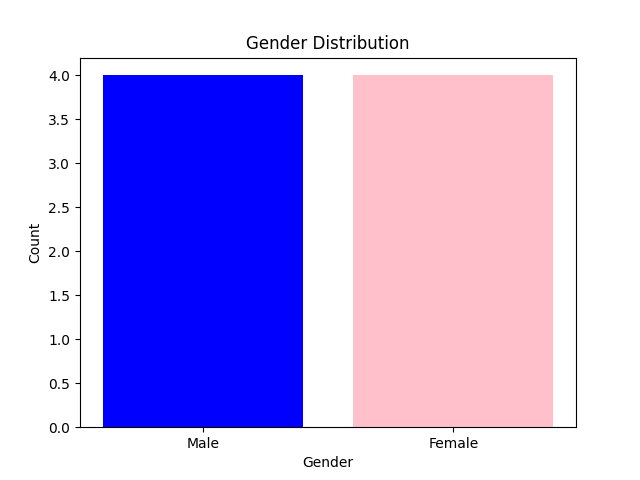
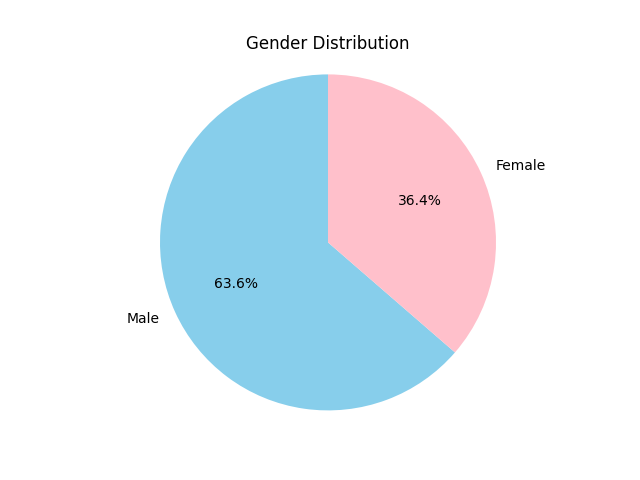
modifing css

diff --git a/templates/index.html b/templates/index.html
@@ -5,36 +5,43 @@
     <meta charset="UTF-8">
     <meta name="viewport" content="width=device-width, initial-scale=1.0">
     <title>Student GPA App</title>
+    <link rel="stylesheet" href="{{ url_for('static', filename='styles.css') }}">
+    <!-- <link rel="stylesheet" href="../static/styles.css"> -->
 </head>
 
 <body>
-    <h1>Student GPA App</h1>
+    <div class="container">
+        <h1>Student GPA App</h1>
 
-    <h2>Diagrams</h2>
-    <div>
-        <img src="{{ url_for('static', filename='diagrams/gpa_chart.png') }}" alt="GPA Chart">
-        <img src="{{ url_for('static', filename='diagrams/gender_chart.png') }}" alt="Gender Chart">
+        <h2>Diagrams</h2>
+        <div class="diagrams">
+            <img src="{{ url_for('static', filename='diagrams/gpa_chart.png') }}" alt="GPA Chart">
+            <img src="{{ url_for('static', filename='diagrams/gender_chart.png') }}" alt="Gender Chart">
+            <!-- <img src="../static/diagrams/gpa_chart.png">
+            <img src="../static/diagrams/gender_chart.png"> -->
+        </div>
+
+        <h2 class="h2">Student List</h2>
+        <table border="1">
+            <tr>
+                <th>Name</th>
+                <th>Gender</th>
+                <th>GPA</th>
+            </tr>
+            {% for student in students %}
+            <tr>
+                <td>{{ student.name }}</td>
+                <td>{{ student.gender }}</td>
+                <td>{{ student.gpa }}</td>
+            </tr>
+            {% endfor %}
+        </table>
+
+        <a class="add-button" href="{{ url_for('add_student') }}">Add New Student</a>
+        <hr>
+        <P>Developed BY <a class="yadi" href="https://github.com/yadi09/student_info_matplotlib/">YADAMZER TEREFE</a>
+        </P>
     </div>
-
-    <h2>Student List</h2>
-    <table border="1">
-        <tr>
-            <th>Name</th>
-            <th>Gender</th>
-            <th>GPA</th>
-        </tr>
-        {% for student in students %}
-        <tr>
-            <td>{{ student.name }}</td>
-            <td>{{ student.gender }}</td>
-            <td>{{ student.gpa }}</td>
-        </tr>
-        {% endfor %}
-    </table>
-
-    <a href="{{ url_for('add_student') }}">Add New Student</a>
-    <hr>
-    <P>Developed BY <a href="https://github.com/yadi09/student_info_matplotlib/">YADAMZER TEREFE</a></P>
 </body>
 
 </html>

diff --git a/static/styles.css b/static/styles.css
@@ -1,0 +1,90 @@
+body {
+    font-family: Arial, sans-serif;
+    margin: 0;
+    padding: 0;
+    background-color: #ffffff;
+}
+
+.container {
+    width: 80%;
+    margin: 20px auto;
+    background: rgb(206, 212, 224);
+    padding: 20px;
+    border-radius: 10px;
+    box-shadow: 0 4px 10px rgba(0, 0, 0, 0.1);
+}
+
+h1,
+h2 {
+    text-align: center;
+    color: #333;
+}
+
+h1 {
+    border-bottom: solid 3px black;
+    padding-bottom: 15px;
+    margin-bottom: 0px;
+}
+
+.diagrams {
+    display: flex;
+    justify-content: space-around;
+    margin: 20px 0;
+}
+
+.diagrams img {
+    max-width: 500px;
+    border: 1px solid #ddd;
+    border-radius: 10px;
+    padding: 5px;
+    background: #215ac4;
+}
+
+.h2 {
+    border-top: solid 3px black;
+    border-bottom: solid 3px black;
+    padding: 10px;
+    margin-top: 50px;
+    margin-bottom: 30px;
+}
+
+table {
+    width: 100%;
+    border-collapse: collapse;
+    margin: 20px 0;
+}
+
+table th,
+table td {
+    border: 2px solid #ffffff;
+    padding: 10px;
+    text-align: left;
+}
+
+table th {
+    background-color: #f4f4f4;
+}
+
+.add-button {
+    display: inline-block;
+    padding: 10px 20px;
+    background: #007BFF;
+    color: white;
+    text-decoration: none;
+    border-radius: 5px;
+    text-align: center;
+}
+
+.add-button:hover {
+    background: #0056b3;
+}
+
+p {
+    margin-top: 50px;
+    margin-bottom: 0;
+}
+
+.yadi {
+    text-decoration: none;
+    color: #215ac4;
+}

diff --git a/static/styles_add_student.css b/static/styles_add_student.css
@@ -1,0 +1,74 @@
+body {
+    font-family: 'Arial', sans-serif;
+    background-color: #eef2f3;
+    margin: 0;
+    padding: 0;
+    color: #333;
+}
+
+h1 {
+    text-align: center;
+    color: #2c3e50;
+    margin-top: 20px;
+    font-size: 28px;
+}
+
+form {
+    width: 400px;
+    margin: 20px auto;
+    padding: 20px;
+    background: white;
+    border-radius: 8px;
+    box-shadow: 0 4px 6px rgba(0, 0, 0, 0.1);
+}
+
+label {
+    display: block;
+    font-weight: bold;
+    margin-top: 10px;
+}
+
+input[type="text"],
+input[type="number"],
+select {
+    width: 95%;
+    padding: 10px;
+    margin-top: 5px;
+    margin-bottom: 15px;
+    border: 1px solid #ccc;
+    border-radius: 5px;
+    font-size: 16px;
+}
+
+select {
+    width: 100%;
+}
+
+button {
+    width: 100%;
+    padding: 10px;
+    background-color: #3498db;
+    color: white;
+    border: none;
+    border-radius: 5px;
+    font-size: 16px;
+    cursor: pointer;
+}
+
+button:hover {
+    background-color: #1d6fa5;
+}
+
+a {
+    display: block;
+    text-align: center;
+    margin-top: 15px;
+    color: #3498db;
+    text-decoration: none;
+    font-size: 14px;
+}
+
+a:hover {
+    color: #1d6fa5;
+    text-decoration: underline;
+}

diff --git a/templates/add_student.html b/templates/add_student.html
@@ -5,6 +5,8 @@
     <meta charset="UTF-8">
     <meta name="viewport" content="width=device-width, initial-scale=1.0">
     <title>Add Student</title>
+    <link rel="stylesheet" href="{{ url_for('static', filename='styles_add_student.css') }}">
+    <!-- <link rel="stylesheet" href="../static/styles_add_student.css"> -->
 </head>
 
 <body>

diff --git a/app.py b/app.py
@@ -14,6 +14,8 @@ students_data = [
     {"name": "Regasa", "gender": "Male", "gpa": 0.5},
     {"name": "Demekech", "gender": "Female", "gpa": 2.7},
     {"name": "Alemitu", "gender": "Female", "gpa": 1.4},
+    {"name": "zelalem", "gender": "Male", "gpa": 3.4},
+    {"name": "abel", "gender": "Male", "gpa": 2.9},
 ]
 
 # function to generate diagrams
@@ -33,10 +35,12 @@ def generate_diagrams():
     gender_count = {"Male": 0, "Female": 0}
     for student in students_data:
         gender_count[student["gender"]] += 1
-    plt.bar(gender_count.keys(), gender_count.values(), color=['blue', 'pink'])
+    labels = list(gender_count.keys())
+    sizes = list(gender_count.values())
+    colors = ['skyblue', 'pink']
+    plt.pie(sizes, labels=labels, colors=colors, autopct='%1.1f%%', startangle=90)
     plt.title("Gender Distribution")
-    plt.xlabel("Gender")
-    plt.ylabel("Count")
+    plt.axis('equal')  # Equal aspect ratio ensures the pie chart is a circle
     plt.savefig("static/diagrams/gender_chart.png")
     plt.close()
 
